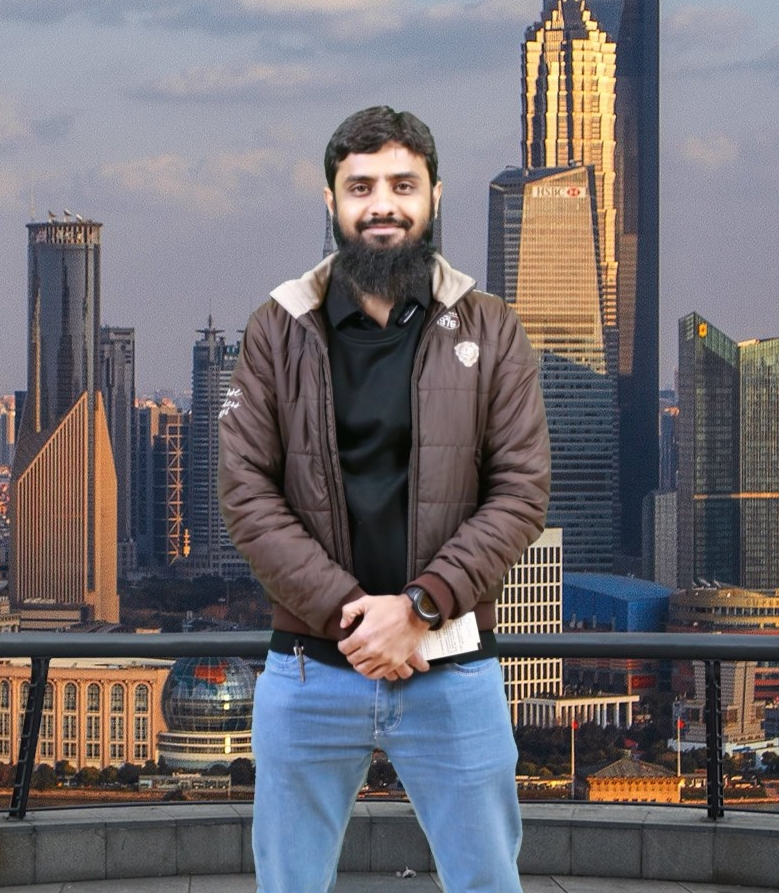
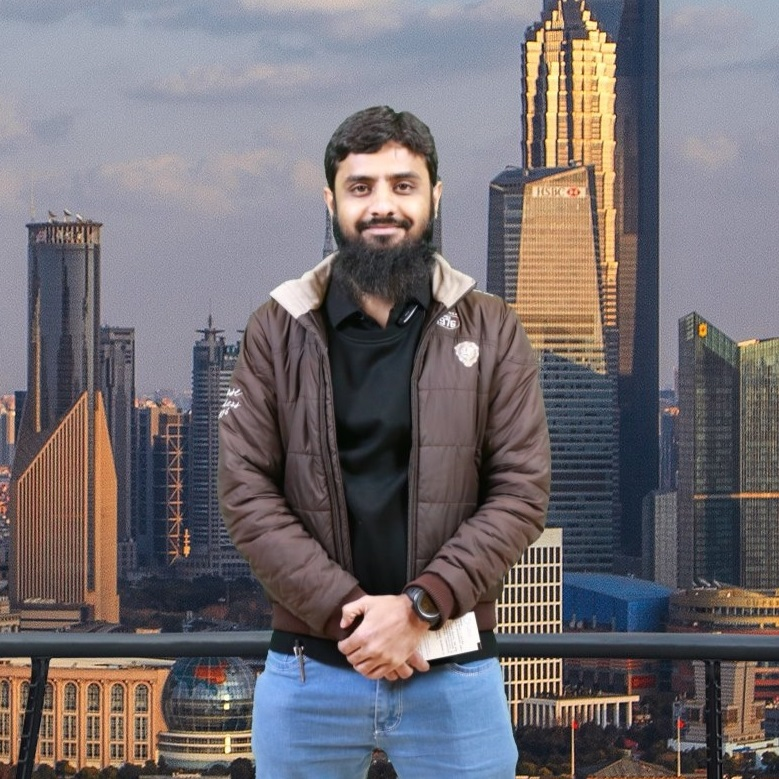
picture size have bug have been resolved

diff --git a/src/app/page.tsx b/src/app/page.tsx
@@ -8,47 +8,53 @@ import CallIcon from '@mui/icons-material/Call';
 import useWindowSize from "@/hooks/useWindowSize";
 import image from "./../../public/static/muhammadNasir.jpg"
 
-
-
 export default function Home() {
   const size = useWindowSize();
   return (
-    <Container maxWidth="lg" sx={{height: "100%", paddingTop: "2rem", paddingBottom: "2rem"}}>
-    <Container maxWidth="lg" sx={{ height: "100%", display: "flex", flexDirection: "row"}}>
-      <Grid container alignItems="center" flexWrap="wrap-reverse">
-        <Grid item xs={12} md={6} style={{ display: "flex", justifyContent: 'center' }}>
-          <Box sx={{maxWidth: "500px" }}>
-            <Typography variant="h3" color="primary.light">Hi!</Typography>
-            <Typography variant="h3">I'm Nasir,</Typography>
-            <Typography variant="h3">Full-Stack Developer</Typography>
-            <Typography variant="body1" sx={{ marginTop: "25px", marginBottom: "25px", textAlign: "justify" }}>I am a MERN Stack Developer, I work with ReactJS, React Native, NextJS, NodeJS, ExpressJS, MongoDB etc to develop web and mobile applications. Also carrying experience to work with third party libraries like MUI, Formik, Yup, Mongoose and many more. </Typography>
-            <Button variant="outlined" startIcon={<DownloadIcon />} sx={{ marginRight: "10px" }}>Resume</Button>
-            <Button variant="contained" startIcon={<CallIcon />}>Contact</Button>
-          </Box>
+    <Container maxWidth="lg" sx={{ height: "100%", paddingTop: "2rem", paddingBottom: "2rem" }}>
+      <Container maxWidth="lg" sx={{ height: "100%", display: "flex", flexDirection: "row" }}>
+        <Grid container alignItems="center" flexWrap="wrap-reverse">
+          <Grid item xs={12} md={6} style={{ display: "flex", justifyContent: 'center' }}>
+            <Box sx={{ maxWidth: "500px" }}>
+              <Typography variant="h3" color="primary.light">Hi!</Typography>
+              <Typography variant="h3">I'm Nasir,</Typography>
+              <Typography variant="h3">Full-Stack Developer</Typography>
+              <Typography variant="body1" sx={{ marginTop: "25px", marginBottom: "25px", textAlign: "justify" }}>I am a MERN Stack Developer, I work with ReactJS, React Native, NextJS, NodeJS, ExpressJS, MongoDB etc to develop web and mobile applications. Also carrying experience to work with third party libraries like MUI, Formik, Yup, Mongoose and many more. </Typography>
+              <Button variant="outlined" startIcon={<DownloadIcon />} sx={{ marginRight: "10px" }}>Resume</Button>
+              <Button variant="contained" startIcon={<CallIcon />}>Contact</Button>
+            </Box>
+          </Grid>
+          <Grid item xs={12} md={6} textAlign="center">
+            {
+              size.width < 500 ?
+                <div style={{ width: "225px", height: "225px", margin: "auto" }}>
+                  <Image
+                    alt="author"
+                    src={image}
+                    width={225}
+                    height={225}
+                    objectFit="cover"
+                    style={{ borderRadius: "112.5px" }}
+                  />
+                </div>
+                : <></>}
+            {
+              size.width >= 500 ?
+                <div style={{ width: "350px", height: "350px", margin: "auto" }}>
+                  <Image
+                    alt="author"
+                    src={image}
+                    width={350}
+                    height={350}
+                    objectFit="cover"
+                    style={{ borderRadius: "175px" }}
+                  />
+                </div>
+                : <></>
+            }
+          </Grid>
         </Grid>
-        <Grid item xs={12} md={6} textAlign="center">
-          {
-            size.width < 500 ? <Image
-              width={225}
-              height={225}
-              alt="Picture of the author"
-              style={{ borderRadius: "50px" }}
-              src={image}
-              priority
-            /> : <Image
-              width={350}
-              height={350}
-              alt="Picture of the author"
-              style={{ borderRadius: "50px" }}
-              src={image}
-              priority
-            />
-          }
-
-        </Grid>
-      </Grid>
-
-    </Container>
+      </Container>
     </Container>
   )
 }
